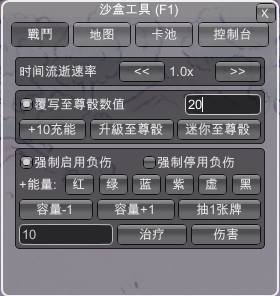
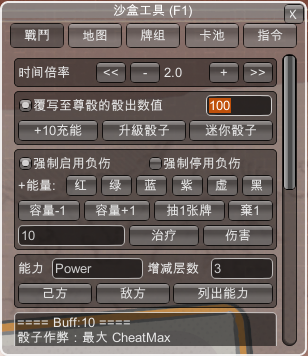
[SandboxTool] v1.0.2 release

diff --git a/SandboxTool/README.md b/SandboxTool/README.md
@@ -1,30 +1,37 @@
 # 沙盒工具 SandboxTool
 
-这个Mod引入了多种新功能，让你能更好地控制游戏中的各种机制。  
+这个Mod引入了调试和扩展功能，让你能更好地控制游戏中的各种机制。  
 默认热键F1开启mod视窗，在视窗右下角可以拖曳调整大小。  
+感谢杀戮尖塔Loadout Mod的启发。  
 
 ----
 
 ## 战斗
 ![img](https://raw.githubusercontent.com/starfi5h/DICEOMANCER_Mod/dev/SandboxTool/img/sandboxTool_combat.png)  
-#### 动画速度调整
-- 时间流逝速率：调整游戏中时间流逝的速度。  
-使用<<按钮减慢时间速度（将当前速度除以2，最低为1倍）>>按钮加速时间（将当前速度乘以2）。
 
-#### 至尊骰修改
+### 动画速度调整
+- 时间倍率：调整游戏中时间流逝的速度。允许范围为1倍至32倍。<<减半，-减一，+加一，>>翻倍。
+
+### 至尊骰修改
 - 开启“覆写至尊骰数值”选项来手动设定骰子数值。在旁边输入框中输入你希望的数值(非负整数)。
-- +10充能：为你的骰子增加10点充能。
-- 升級至尊骰：升级你的骰子。
-- 迷你至尊骰：将你的骰子降级为D4。
+- +10充能：为至尊骰宝物增加10点充能。
+- 升級骰子：升级至尊骰。
+- 迷你骰子：将至尊骰降级为四面骰D4。
 
-#### 战斗机制
+### 战斗机制
 - 强制启用/停用负伤：非红色职业也可以开启负伤机制。
 - +能量：点击不同颜色的按钮来增加对应颜色的能量。
 - 容量-1 和 容量+1：调整你的能量容量上限。
-- 抽1张牌：抽取一张卡片。  
+- 抽1张牌：抽取一张卡片。
+- 弃1：弃掉最左手边的卡片。
 - 治疗：根据输入的数字治疗玩家。  
 - 伤害：根据输入的数字对敌人造成伤害。  
 
+### 能力修改
+- 输入框：能力(英文)，层数为正是添加，为负是减少
+- 己方：为玩家角色增减能力
+- 敌方：为所有敌方角色增减能力
+- 列出能力：显示通用能力。按住Ctrl显示所有能力。
 ----
 
 ## 地图
@@ -38,6 +45,32 @@
 
 ----
 
+## 牌组
+![img](https://raw.githubusercontent.com/starfi5h/DICEOMANCER_Mod/dev/SandboxTool/img/sandboxTool_deck.png) 
+
+### 过滤与获取卡牌
+- 按稀有度筛选卡牌，并通过以下按钮获取：
+  - 掉落：从目前的可掉落卡池获取卡牌
+  - 标准：包含所有职业的可掉落卡池
+  - 特殊：只能透过商店或特殊事件获取的卡池
+  - 其他
+
+### 批量操作修改牌库
+- 升级：升级选定卡牌。
+- 移除：移除选定卡牌。
+- 融合：选择两张或多张卡牌，将它们的效果和关键词叠加到第一张选定的卡牌中。
+- 复制：多次复制指定卡牌。输入复制次数后，点击“复制”按钮。
+
+### 关键词修改
+- 添加关键词：为卡牌添加指定关键词及其参数。
+- 移除关键词：移除卡牌的某个关键词。
+- 列出关键词：显示可用关键词。按住Ctrl显示所有关键词。
+
+### 消息反馈
+操作结果会显示在下方的消息框中，包括成功或错误信息。
+
+----
+
 ## 卡池
 ![img](https://raw.githubusercontent.com/starfi5h/DICEOMANCER_Mod/dev/SandboxTool/img/sandboxTool_drop.png)  
 允许你自定义游戏中的卡牌和遗物掉落池,让你能更好地控制游戏过程中可以获得的卡牌和遗物。
@@ -47,7 +80,7 @@
 - 可选择包含的卡池类型:
   - 标准卡池: 原版游戏的掉落卡池，包含所有职业
   - 特殊卡池: 不在一般的掉落卡池中, 只能透过商店或特殊事件获取
-  - 其他卡牌: 衍生卡牌等
+  - 其他卡牌: 衍生卡牌、教学或废案等
 - 支持导出当前卡池配置
 - 支持导入自定义卡池配置
 - 可以随时重置回默认卡池
@@ -85,13 +118,18 @@
 
 ----
 
-## 命令台
+## 指令
 ![img](https://raw.githubusercontent.com/starfi5h/DICEOMANCER_Mod/dev/SandboxTool/img/sandboxTool_console.png)  
 格式为[命令]:[参数]。举例：
-- `GainCard:BalanceTweak` 在卡组中加入一张`平衡调整`
-- `GainRelic:ForgetMeNot` 获得宝物`勿忘我`
-- `GainAllRelic` 得到所有遗物
+- `GainCard:BalanceTweak` 在牌组中加入一张`平衡调整`
+- `RemoveCard:Dice` 从牌组中移除卡牌`至尊骰`
 - `RemoveAllCards` 移除玩家所有的牌
+- `GainRelic:TalismanOfPGB` 获得宝物`工匠護符`
+- `RemoveRelic:TheOneDice` 移除宝物`至尊骰`
+- `GainAllRelic` 得到所有宝物
+- `RemoveAllRelics` 移除所有宝物
+- `GainAllAbilityByAbilityType:Util` 战斗中获得所有Util能力
+- `PlayAllCardAnimation` 展示所有动画
   
 地图节点随机数：随机数_mapNodeUniqueSeed的值，可以观察世界线变更的情况  
 
@@ -114,5 +152,6 @@
 
 ## 更新日志 Changelog
 
+- v1.0.2 - 加入牌组及卡片修改功能。加入增益减益修改功能。更新指令集 2025/1/20
 - v1.0.1 - 加入卡池导入功能 2025/1/16
 - v1.0.0 - Initial Release. (Game version v1.1.15) 2025/1/16
